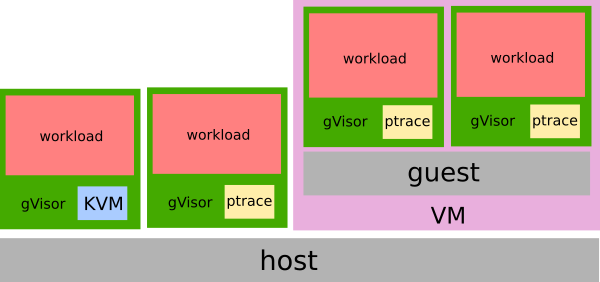
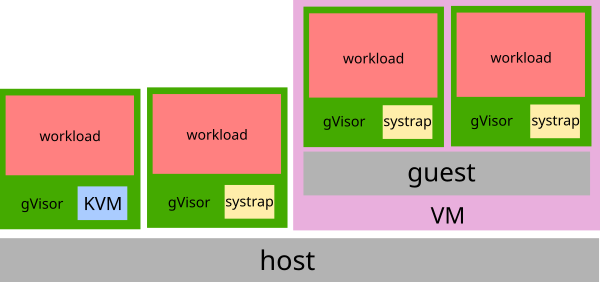
Update platform diagram to replace ptrace with systrap.
Also include reference to Systrap in the Platform Portability blog post.

Fixes #10386

PiperOrigin-RevId: 633383052

diff --git a/website/blog/2020-10-22-platform-portability.md b/website/blog/2020-10-22-platform-portability.md
@@ -6,13 +6,18 @@ requires expensive bare-metal machines or cloud instances to run safely with
 good performance, increasing cost and complexity for Cloud users. gVisor,
 however, takes a more flexible approach.
 
+**NOTE 2024-05**: This post describes the ptrace and KVM platforms, which were
+the only two gVisor platforms at the time it was written. The
+[Systrap platform](/blog/2023/04/28/systrap-release/) was added since and
+provides better performance than ptrace.
+
 One of the pillars of gVisor's architecture is portability, allowing it to run
 anywhere that runs Linux. Modern Cloud-Native applications run in containers in
 many different places, from bare metal to virtual machines, and can't always
 rely on nested virtualization. It is important for gVisor to be able to support
 the environments where you run containers.
 
-gVisor achieves portability through an abstraction called a _Platform_.
+gVisor achieves portability through an abstraction called a *Platform*.
 Platforms can have many implementations, and each implementation can cover
 different environments, making use of available software or hardware features.
 
